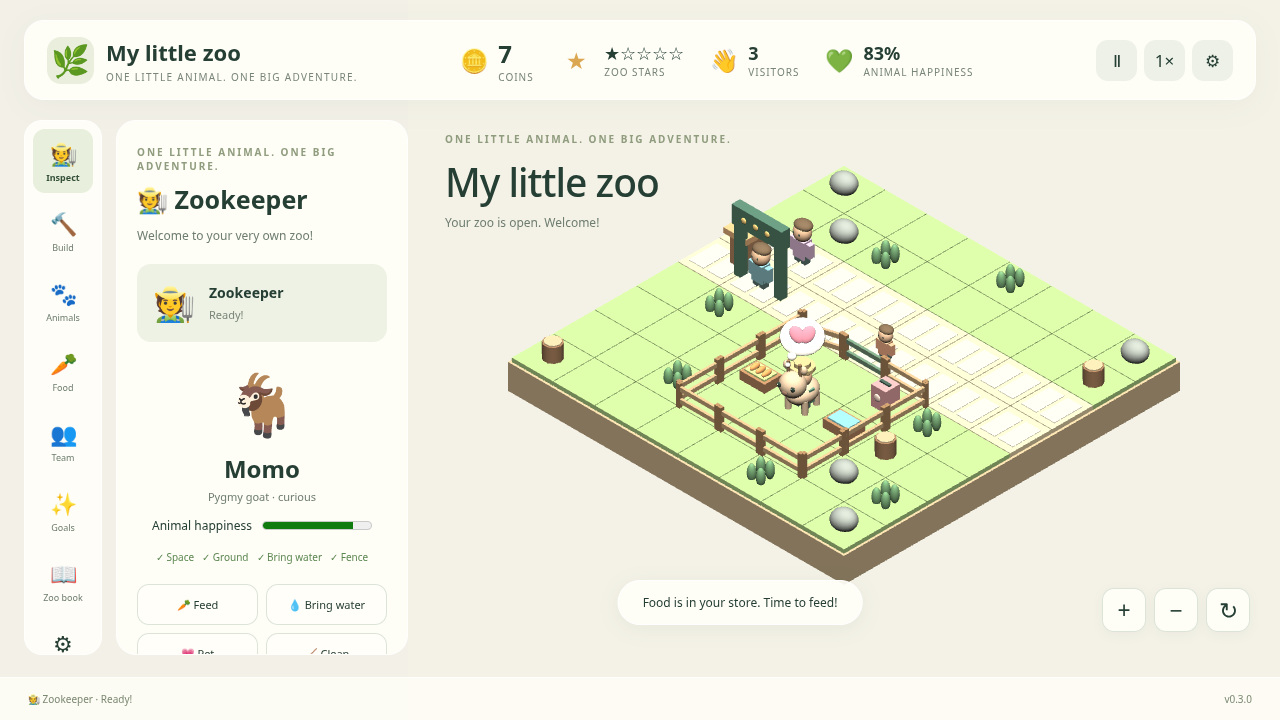
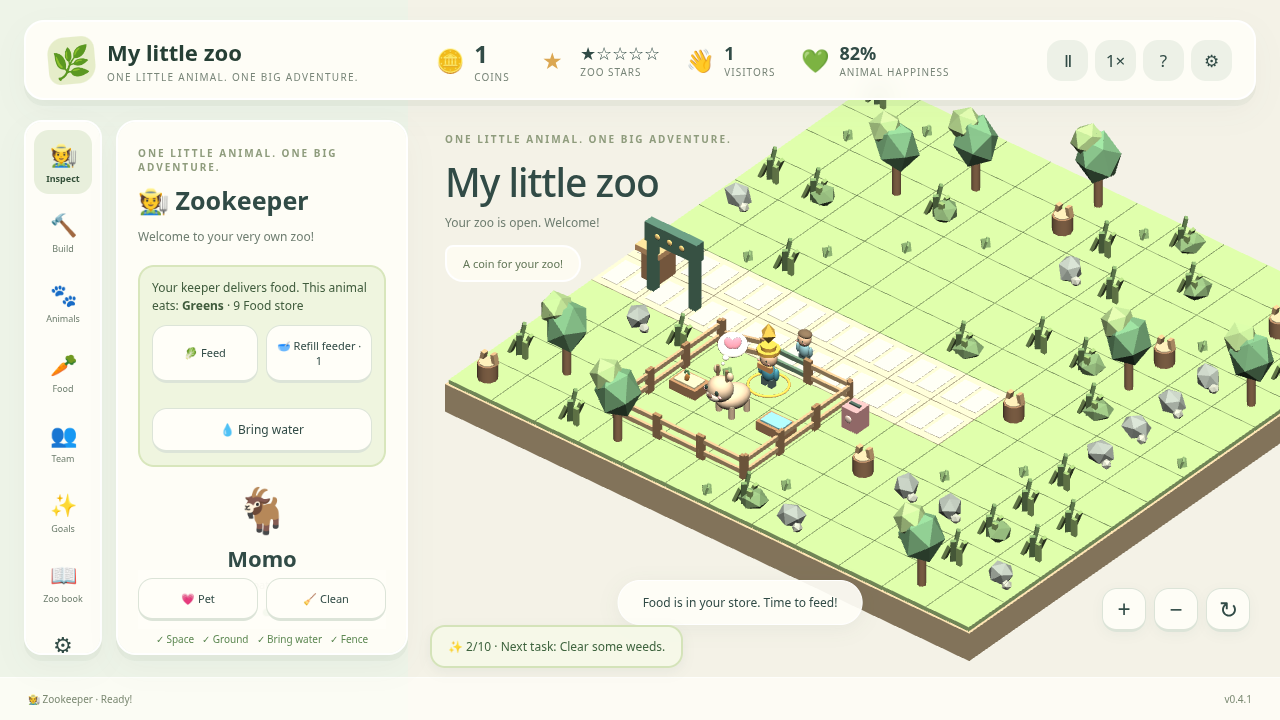
docs: record verified vision completion and deployment checks

diff --git a/docs/vision-status.md b/docs/vision-status.md
@@ -1,9 +1,10 @@
 # Vision status and MVP scope
 
-Source: [Vision(1).md](<../Vision(1).md>). The current delivery target is the first
-runnable **English MVP**, following the later request to prioritize playing as soon
-as possible. German and the full long-term vision remain visible work rather than
-being described as finished. [PLAN.md](../PLAN.md) is the active execution checklist.
+Source: [Vision(1).md](<../Vision(1).md>). The current delivery target is the
+complete version-one vision, including live German/English switching, cute
+figures, practical in-game help, and visitors who can pass in both directions.
+The earlier English-only MVP deferrals have been superseded by the latest user
+instructions. [PLAN.md](../PLAN.md) is updated in every implementation commit.
 
 This audit records implemented code, not proof of successful child playtesting.
 Browser, Docker, and remote-deployment results must be read from their actual test
@@ -27,21 +28,70 @@ reports and GitHub Actions runs.
 | 39               | Catalog and simulation include all five named MVP species and the listed basic buildings, care actions and core systems                           | `src/catalog.ts`, `src/game.ts`, `src/app.ts`                                     |
 | 3, 40, 42        | No animal death, debt, premium currency, gambling, real-money purchases, multiplayer or violent events                                            | Simulation model and dependency/application design                                |
 
+New zoos begin on 12 × 12 tiles with an organically scattered rough outer area;
+older saves retain their existing dimensions. The admission interval is slower,
+and donation chances and goal rewards are smaller. Movement respects occupied
+tiles, care completes from beside the animal, and workers/families spawn on
+separate free cells. Player-facing speeds are 0.5×, 1× and 2×, with pause available.
+
 Food transport and waste removal are explicit additional user requirements.
 Purchasing food does not feed animals remotely. The initial food supply and free
 emergency portions prevent a zero-coin dead end.
 
-## Remaining full-vision work
+## Version-one completion audit
 
-| Area                                     | Current limit / remaining work                                                                                                                                                                        |
-| ---------------------------------------- | ----------------------------------------------------------------------------------------------------------------------------------------------------------------------------------------------------- |
-| German and live language switching (§33) | English is the first playable UI. Translation dictionaries and helper infrastructure exist; complete visible text localization and a language switch are deferred.                                    |
-| Story animations (§3, §18, §29)          | Basic eating, affection, walking, carrying, sitting and jumping are represented. Species-specific swimming, sleeping schedules, mischievous behavior and personality-driven animation are incomplete. |
-| Friendly events (§27)                    | Event identifiers are selected in the simulation. Actual school groups, birthday activities, balloon interactions and photo-day gameplay are deferred.                                                |
-| Animal arrivals (§38)                    | Adoption adds a visible animal and status message. Transporter arrival, unloading and confetti celebrations are deferred.                                                                             |
-| Detailed habitat requirements (§16)      | Current checks cover enclosure size, preferred terrain, water and fence height. Mixed land/water proportions, temperature, rocks/plants and feeding-facility requirements need richer species rules.  |
-| Staff specialization (§25)               | Care, cleaning and gardening are functional. Vendors currently have no distinct shop-operation behavior. No advanced schedules are planned for version one.                                           |
-| Child usability (§43)                    | Automated tests cannot prove that an eight-year-old understands the loop without instruction. Actual supervised child playtesting remains necessary.                                                  |
+| Section | Implementation and validation                                                                                                                                         |
+| ------- | --------------------------------------------------------------------------------------------------------------------------------------------------------------------- |
+| 1       | Desktop isometric zoo, English/German, one starter and zero coins; creation, UI and browser tests.                                                                    |
+| 2       | Visible keeper walks to care and cleanup; command, delivery and renderer tests.                                                                                       |
+| 3       | Thought clouds and positive, recoverable economy; welfare and renderer tests.                                                                                         |
+| 4       | Care, visitors, income, buildings, unlocks and staff; simulation integration tests.                                                                                   |
+| 5       | Choice of five starters, rough land, gate, feeder and trough; starter UI and save tests.                                                                              |
+| 6       | Short clear/repair/feed/open/build goals; one-time goal reward tests.                                                                                                 |
+| 7       | Coins are spendable, stars unlock five catalog tiers; economy/progression tests.                                                                                      |
+| 8       | Bounded quality-based recommendation, price faces and price-dependent arrivals; simulation/UI tests.                                                                  |
+| 9       | Children, parents, fans, needs and family play effects; visitor tests.                                                                                                |
+| 10      | Happiness affects stays, donations, shopping and arrivals; simulation and expression tests.                                                                           |
+| 11      | Donations respond to animal care, boxes and viewing seats; donation tests.                                                                                            |
+| 12      | Nine recognizable stalls with automatic nearby sales and vendor assistance; shop/renderer tests.                                                                      |
+| 13      | Eight play/rest attractions with family benefits; catalog and visitor tests.                                                                                          |
+| 14      | Keeper context actions, routes, tools and food carrying; unit/browser tests.                                                                                          |
+| 15      | Twenty species across five tiers, including all MVP species; catalog and adoption tests.                                                                              |
+| 16      | Space shared by occupants, terrain ratios, mixed water/land, fences, feeders, shelters, plants and rocks; habitat tests. Tropical/snow ground represents warmth/cold. |
+| 17      | Hunger, water, affection and digestion; physical delivery, waste removal, real feeder/trough stock and truthful empty visuals; stock/consumption/save tests.          |
+| 18      | Localized names and personalities with curious/playful/sleepy animation; UI/renderer tests.                                                                           |
+| 19      | Edge fences/gates, automatic closed-region detection, terrain brush and habitat objects; world/build tests.                                                           |
+| 20      | Four path types and connected grid routing; route and opposing-traffic tests.                                                                                         |
+| 21      | Weeds, rocks, trees and stumps; short keeper/gardener cleanup tasks tested.                                                                                           |
+| 22      | Coin-funded rough-land expansion to 16 × 16; expansion and save tests.                                                                                                |
+| 23      | Seats restore energy, extend visits and improve viewing donations; visitor tests.                                                                                     |
+| 24      | Cartoon droppings/litter, dirt effects, bins, manual and staff cleaning; cleanup tests.                                                                               |
+| 25      | Visible carers, cleaners, gardeners and shop vendors with debt-free wages; staff tests.                                                                               |
+| 26      | Ten concise rewarded goals, a visible next-task tutorial and detailed hover steps guide the loop; goal idempotence/UI tests.                                          |
+| 27      | School, birthday, sunny, family, photo and balloon events affect visits/mood/care and have visible props; event tests.                                                |
+| 28      | Original colorful procedural diorama, rounded figures and readable silhouettes; actual WebGL browser tests.                                                           |
+| 29      | Eating, sleeping, playing, swimming, petting, work, snacks, sitting, jumping, cheering and income feedback; animation tests.                                          |
+| 30      | Icon-based economy, building, animals, staff, goals and settings; UI tests and short localized help.                                                                  |
+| 31      | Mouse selection/building, cancel, wheel zoom and camera buttons; browser/renderer tests.                                                                              |
+| 32      | Firefox and Chromium, static production build, ten-second autosave and validated recovery; browser/save tests.                                                        |
+| 33      | Complete paired DE/EN dictionaries, immediate switching, localized accessible labels and persisted choice; UI/browser tests.                                          |
+| 34      | Locally synthesized gentle effects, species calls and music with independent mute/volume controls, five original tunes and next-song control; audio tests.            |
+| 35      | Habitat/care planning and concise animal facts provide incidental learning; book UI tests.                                                                            |
+| 36      | Zoo book shows silhouettes/locks, names, habitats, foods and facts; book/reveal tests.                                                                                |
+| 37      | Starts small; goals, diversity, quality, amenities and expansion advance stars; progression tests.                                                                    |
+| 38      | Adoption triggers transporter, crate unloading and confetti with bounded lifetime; arrival/render tests.                                                              |
+| 39      | Five named MVP species, four MVP terrains, guest types, listed objects and core systems are present; catalog/UI/simulation tests.                                     |
+| 40      | No breeding, genetics, complex illness, death, debt, real purchases, multiplayer or complex schedules.                                                                |
+| 41      | Ticket, donation and snack income are tracked separately; shorter early visits and gentle arrivals; economy tests. Values remain playtest hypotheses.                 |
+| 42      | No real purchases, gambling, violent outcomes or permanent failure; simulation scope and dependency audit.                                                            |
+| 43      | Automated browser tests demonstrate the loop; actual supervised child usability testing remains unverified.                                                           |
+| 44      | Care affects welfare, visitor happiness and income; simulation integration coverage.                                                                                  |
+| 45      | Progressive unlocks, short tasks, price faces, staff delegation, capped guest count and original models address listed risks.                                         |
+| 46      | The complete vertical slice connects visible care, guests, income, building and second-animal progression; integration/browser tests.                                 |
+
+Examples and later ideas in the vision are represented by the version-one systems;
+complex breeding, genetics, disease, supply chains and multiplayer remain excluded
+as §40 specifies. No actual child playtesting or final balancing is claimed.
 
 ## Implemented presentation and feedback
 
@@ -52,8 +102,12 @@ straighten after the keeper completes the repair.
 
 Animals, guests, the keeper and staff show procedural thought clouds. Carrot,
 water, heart, sleepy-Z, play, brush and hammer symbols communicate needs and work
-without long text. More elaborate visitor celebrations and species-specific
-stories remain polish work.
+without long text. The player is visibly distinct from employees: a larger blue outfit, gold hat
+marker, scarf, and ground ring identify your keeper. Persistent actor models and
+time-based easing prevent figures from snapping when visitors arrive or terrain
+changes. Rough ground uses irregular weeds, bushes, chipped stones and splintered
+stumps, with sparse grass on open land. Animals now have species-specific details and sleep, swim, play and curiosity
+gestures. Adoption and friendly events have temporary celebrations.
 
 ## Production and validation
 
@@ -67,5 +121,30 @@ smoke test builds and runs the container read-only, requests its health endpoint
 loads the real JavaScript asset, checks the distributed license and confirms the
 runtime user. GitHub Actions mirrors the local pipeline and gates Pages/GHCR
 publication on verification. GitHub Pages is configured for workflow deployment.
-Successful publication and anonymous GHCR pulls must be verified after pushing;
-configuration alone is not a deployment result.
+The first complete release (`0.3.1`) passed all three jobs in
+[Actions run 40130232116](https://github.com/marcelpetrick/DerCooleZoo/actions/runs/40130232116).
+Public Pages HTML and its actual production JavaScript were fetched and checked
+for that version. A real Chromium/WebGL session started the published game,
+selected a starter and welcomed a visitor without page errors. The versioned GHCR
+image was pulled using an empty Docker configuration, confirming anonymous access;
+the workflow also pulled and smoke-tested its published commit tag. Later changes
+must repeat the same release gate.
+
+## Completion verification
+
+The complete version-one implementation was pushed as `ba519c5` (`0.4.0`).
+[Actions run 40132364867](https://github.com/marcelpetrick/DerCooleZoo/actions/runs/40132364867)
+passed verification, Pages deployment and GHCR publication. The documentation and
+verification patch `0.4.1` repeats the same release gate.
+
+Final local results: 129 unit/integration tests, 12 Firefox/Chromium browser tests,
+99.56% statements, 97.99% branches, 99.07% functions and 99.78% lines, production
+build, and Docker smoke test passed. A fresh Chromium session also played the real
+Docker-served `0.4.1` application: startup, help, live languages, visitors and
+save/reopen worked without page errors. `scripts/check-site.mjs` repeats that check
+for any deployed URL.
+
+All version-one software requirements and the user's added feeding, traffic,
+guidance, tooltips, tutorial and music requests have implementation and regression
+evidence. Actual child usability and balancing with human participants remain
+unverified.

diff --git a/docs/review.md b/docs/review.md
@@ -1,35 +1,29 @@
-# Release review
+# Completion review
 
-Base: main @ af2515e Head: af2515e
-Files changed against integration branch: 0 +0 / -0 lines
+The required `reviewBranch` skill resolved `main` as the integration branch at
+`234f6de`. The formal three-dot branch diff was empty because work happens directly
+on `main`. A supplemental review examined the pending implementation, call sites,
+malformed-save paths, movement, care, and resource lifetimes.
 
-## reviewBranch result
+Two confirmed findings were fixed and regression-tested:
 
-The work was explicitly performed directly on main. The resolved integration
-branch is therefore the current main commit and its three-dot diff is empty.
-The `reviewBranch` skill has no branch delta to review.
+- A cycle of four guests could remain blocked forever. Movement now rotates valid
+  occupied guest cycles atomically, with passing lanes in the renderer. Expired
+  visits and closing interrupt old tour routes so guests head to the exit.
+- Gardeners cleared purchased decorative trees. Automatic gardening now clears
+  weeds, stones and stumps; tree removal remains an explicit keeper action.
 
-## Supplementary first-release self-review
+Further functional review fixed moving-animal selection, stale ticket feedback,
+misleading wage labels, inaccessible starter trough placement (including old-save
+migration), decorative-only feeders/troughs, and missing tutorial credit when an animal ate
+from its feeder. Real stock is consumed by animals
+and replenished through physical keeper delivery; empty facilities render empty.
 
-The implementation was also reviewed directly, following the value flow from
-UI action to command, route, delivery, inventory, visitor response and save.
-Confirmed issues fixed with regression tests include inaccessible rock/stump
-clearing targets, guests crossing fences, stale queued guest routes, family
-admission exceeding the visitor cap, off-target care, invalid payments, carers
-skipping water when food is empty, hidden owned starter species, fence
-orientation, resize handling, and unavailable storage recovery.
+The reviewed findings are resolved. Automated tests cover crowded traffic and save
+reopening, populated-zoo closure, feeder/water consumption, physical refill
+transport, and actual browser interaction. Actual child usability testing remains
+unverified.
 
-A second pass found a mismatch between employee hiring and save limits, stale
-inspector/unlock state after simulation changes, and a zero-coin trapped-visitor
-recovery issue. The release fixes cap workers, refresh changed inspector/catalog
-state and provide free fence removal. Tests cover these paths.
-
-The full vision's deferred polish is recorded in `vision-status.md`, including
-German, richer story/event animation, habitat detail and real child playtesting.
-Those are explicit MVP limits, not claims of completed functionality.
-
-## Verdict
-
-The English MVP is suitable for first playtesting once the complete pipeline and
-remote deployment gates pass. It should not be advertised as the full polished
-vision or as having been usability-tested with children.
+The subsequent `githubAbout` review confirmed the public description and ten
+topics already match the repository. Evidence and alternatives are recorded in
+[github-about.md](github-about.md).

diff --git a/PLAN.md b/PLAN.md
@@ -10,8 +10,8 @@ Complete the version-one product described in [Vision(1).md](<Vision(1).md>),
 including German/English live switching and the remaining simulation and visual
 feedback. The latest instructions supersede the previous English-only MVP scope.
 Make the zoo cute, preserve existing saves, work on main, and update this plan in
-every commit. Three subagents own localization, simulation, and renderer polish;
-the primary agent owns integration, browser acceptance, documentation and release.
+every commit. Three subagents completed localization, simulation, and renderer polish;
+the primary agent integrated them and owns browser acceptance and release.
 
 ## Active completion work
 
@@ -34,14 +34,21 @@ the primary agent owns integration, browser acceptance, documentation and releas
 - [x] Refresh the real UI screenshot and requirement traceability.
 - [x] Run reviewBranch, address findings, then run githubAbout.
 - [x] Run full pipeline including real Docker smoke verification.
-- [ ] Commit with version bump, push, inspect actual Actions/Pages/GHCR results.
-- [ ] Leave a clean working tree and report child playtesting as unverified.
+- [x] Commit with version bump, push, inspect actual Actions/Pages/GHCR results.
+- [x] Leave a clean working tree and report child playtesting as unverified.
 
 Local verification for the feature release: 129 tests, 12 browser scenarios across
 Firefox/Chromium, 99.56% statements / 97.99% branches / 99.07% functions / 99.78%
 lines, production build and real Docker smoke check all passed. Two browser workers
 keep software WebGL responsive instead of oversubscribing local/CI CPUs. Review
-findings are resolved; metadata matches GitHub. Remote publication is the next gate.
+findings are resolved; metadata matches GitHub. Feature release `0.4.0` was committed as `ba519c5` and pushed. Its actual
+[Actions run](https://github.com/marcelpetrick/DerCooleZoo/actions/runs/40132364867)
+passed all three jobs (verification, Pages, GHCR). Patch `0.4.1` records the
+completed audit, refreshed screenshot and reusable deployed-site smoke script; its
+full local pipeline also passed, including a real browser session against the
+Docker-served application. The final patch workflow is inspected after pushing.
+Actual child usability/playtesting remains unverified; automated scenarios do not
+substitute for participants.
 
 ## Execution checklist
 
@@ -59,8 +66,8 @@ findings are resolved; metadata matches GitHub. Remote publication is the next g
 - [x] Polish walking animations and make the player keeper unmistakable.
 - [x] Slow early visitor flow and earnings; add more rough, uncleared land.
 - [x] Enforce collision space for people and animals, with compatible saves.
-- [ ] Complete Docker, Pages and GHCR release verification.
-- [ ] Verify all remote checks, final pipeline, pushed commits and clean tree.
+- [x] Complete Docker, Pages and GHCR release verification.
+- [x] Verify all remote checks, final pipeline, pushed commits and clean tree.
 
 ## Delivery sequence
 

diff --git a/docs/development.md b/docs/development.md
@@ -26,7 +26,8 @@ and validates the container.
 Linux CI runs Firefox with a real X display because its native headless backend
 cannot create WebGL on the GitHub-hosted runner. The same local pipeline enables
 Mesa software rendering and starts Xvfb when `CI` is set and `DISPLAY` is absent.
-Playwright's `--with-deps` installation supplies Xvfb. To reproduce that path:
+Playwright's `--with-deps` installation supplies Xvfb. Browser tests use two
+workers so software WebGL remains responsive on both local and CI CPUs. To reproduce that path:
 
 ```sh
 env -u DISPLAY CI=1 ./localPipeline.sh
@@ -67,7 +68,10 @@ checks. Do not claim remote success until the actual Actions run is complete.
 
 ## GitHub Actions
 
-[Pipeline](../.github/workflows/pipeline.yml) has three jobs:
+[Pipeline](../.github/workflows/pipeline.yml) pins its jobs to Ubuntu 24.04,
+the supported runner used to verify Firefox/Mesa software WebGL. This avoids the
+rolling `ubuntu-latest` migration changing the graphics environment between
+releases. It has three jobs:
 
 1. **Local pipeline:** installs locked dependencies and both browser engines,
    runs `./localPipeline.sh`, uploads verification reports even on failure, and
@@ -111,3 +115,16 @@ browser verification when `CAPTURE_SCREENSHOT=1` is set. Run
 `npm run build && CAPTURE_SCREENSHOT=1 npm run e2e -- --project=chromium`
 to refresh it after meaningful visual changes; do not replace
 it with an illustrative mockup.
+
+## Published-site smoke test
+
+After deployment, verify the exact released version in a fresh Chromium profile:
+
+```sh
+node scripts/check-site.mjs https://marcelpetrick.github.io/DerCooleZoo/
+```
+
+The script uses the installed Playwright Chromium browser, starts the real WebGL
+zoo, checks the package version, help, language switching, visitor arrival, and
+save/reopen, and fails on page errors. An optional second argument overrides the
+expected version. It closes its temporary browser even when a check fails.

diff --git a/docs/github-about.md b/docs/github-about.md
@@ -1,7 +1,8 @@
-# GitHub About proposal
+# GitHub About
 
-Current description: “Zoo-Manager für kleine Kinder”. Current topics: none.
-Prepared using the `githubAbout` skill. Public metadata has not been changed.
+The `githubAbout` completion review checked the live repository description and
+all ten topics against the implemented game. The description and topics below
+already match the public repository; no metadata change was needed.
 
 ## Recommended description
 
@@ -33,4 +34,4 @@ with one animal and zero coins, then models transported food and family visitors
 regression in `tests/app.test.ts`. Age eight is the intended audience specified in
 the vision, not a claim of completed child usability testing. `vite.config.ts`
 enforces the 95% coverage gate, and `playwright.config.ts` targets both browsers.
-`LICENSE` supplies GPLv3. The default UI is English; German remains deferred.
+`LICENSE` supplies GPLv3. English and German support live switching in `src/app.ts` and paired locale files.
